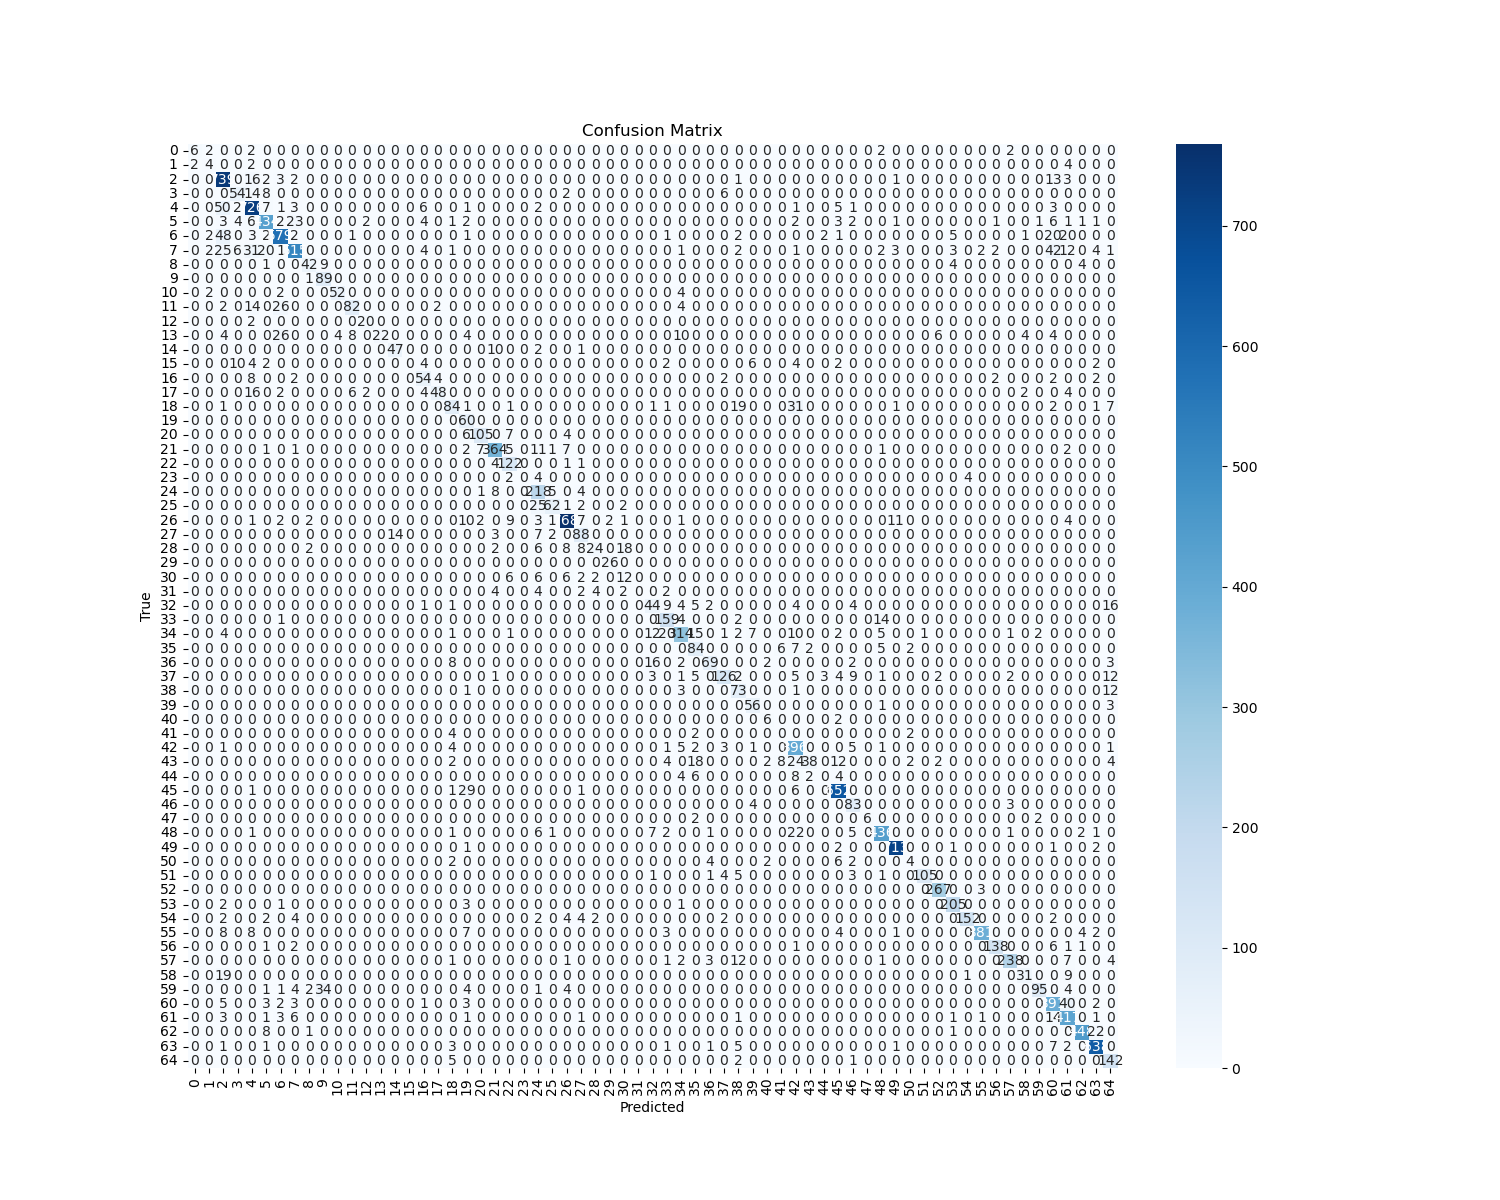
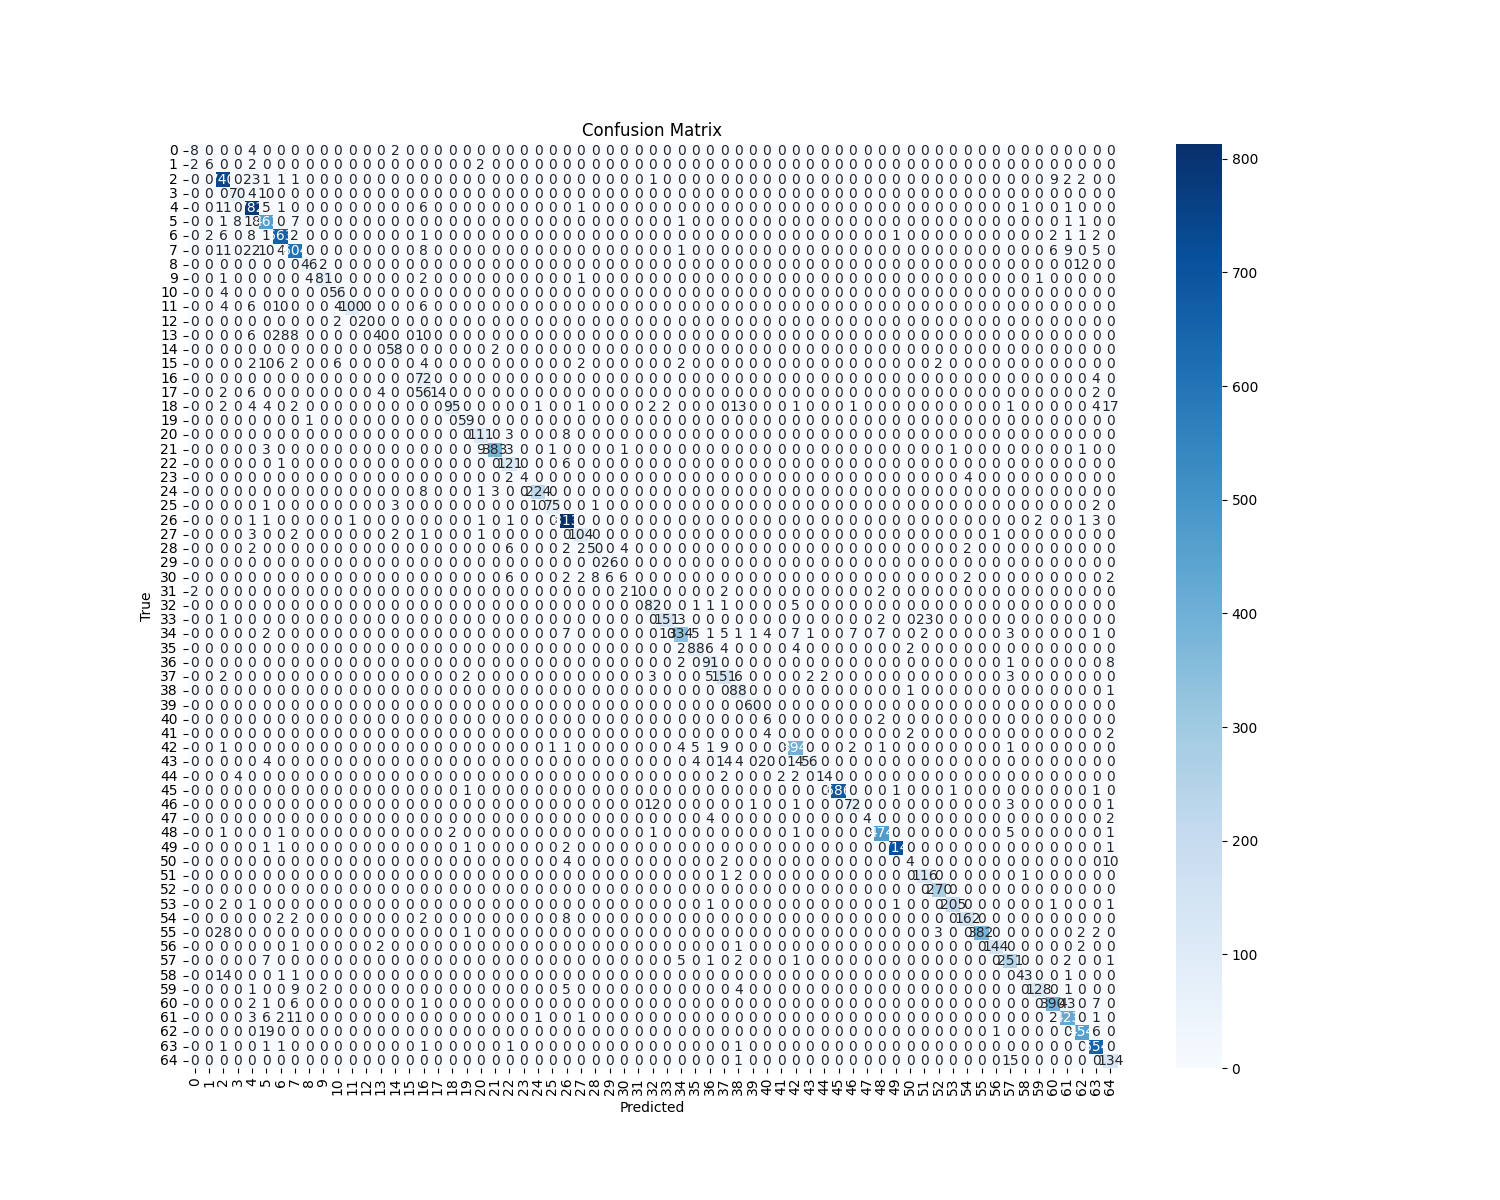
train new iterations, for metrics

diff --git a/backend/speed_recommendation_model.py b/backend/speed_recommendation_model.py
@@ -5,11 +5,9 @@ import cv2
 import numpy as np
 import pandas as pd
 import torch
-from matplotlib import pyplot as plt
 from torch import nn, optim
 from torch.utils.data import Dataset, DataLoader, random_split, WeightedRandomSampler
 from tqdm import tqdm
-from math import floor
 
 import image_feature_extraction as ft_extr
 from classes.speed_recommendation_nn import SpeedRecommendationModel
@@ -75,8 +73,6 @@ def range_to_discrete_value(range_label:str):
     return np.nan
 
 labels = pd.read_csv(LABELS_PATH)
-#labels = labels.drop(columns=["annotator", "lead_time", "updated_at", "created_at", "annotation_id", "id"])
-#labels["image"] = [name[24:] for name in labels["image"]]
 labels.sort_values("image", inplace=True)
 y = labels["choice"].apply(range_to_discrete_value)
 
@@ -84,14 +80,6 @@ data = load_data_and_extract_features(DATA_PATH)
 data.sort_values("image", inplace=True)
 data.drop(columns=["image"], inplace=True)
 
-"""data["speed"] = y
-y_high = data[data["speed"] >= 60]
-y_low = data[data["speed"] < 60]
-upsampled = y_high.sample(replace=True, n=len(y_low)//2, random_state=42)
-data = pd.concat([y_low, upsampled])
-y = data["speed"].to_numpy().reshape(-1, 1)
-data.drop(columns=["speed"], inplace=True)
-"""
 y = y.to_numpy().reshape(-1, 1)
 X = data.to_numpy()
 
@@ -144,13 +132,6 @@ model = SpeedRecommendationModel().to(device)
 loss_fn = nn.SmoothL1Loss()
 optimizer = optim.Adam(model.parameters(), lr=LEARNING_RATE, weight_decay=WEIGHT_DECAY)
 
-"""
-pd.Series(y.flatten()).hist(bins=20)
-plt.xlabel("velocity")
-plt.ylabel("sample size")
-plt.title("velocity-label distribution")
-plt.show()
-"""
 
 model.train()
 for epoch in range(EPOCHS):
@@ -224,4 +205,4 @@ metrics = pd.DataFrame(data={"Accuracy": [accuracy], "Adjacent Accuracy": [adjac
                                 "Overshot Rate", "Undershot Rate", "Major Error Rate"])
 metrics.to_csv(METRICS_PATH, mode='a', header=not os.path.exists(METRICS_PATH), index=False)
 
-torch.save(model.state_dict(), "models/speed_recommendation_model_state.pt")
+torch.save(model.state_dict(), "models/new_speed_recommendation_model_state.pt")

diff --git a/backend/traffic_sign_detection_model.py b/backend/traffic_sign_detection_model.py
@@ -273,30 +273,6 @@ test_dataset = TrafficSignDataset(test_x, test_y, MAX_IMG_SIZE, transform)
 train_loader = DataLoader(train_dataset, batch_size=BATCH_SIZE, shuffle=True, collate_fn=custom_collate_fn, pin_memory=True)
 test_loader = DataLoader(test_dataset, batch_size=BATCH_SIZE, shuffle=True, collate_fn=custom_collate_fn, pin_memory=True)
 
-"""
-for images, targets in tqdm(test_loader):
-    for image, target in zip(images, targets):
-        im = image.permute(1, 2, 0).numpy()
-        draw_bounding_boxes(im, [], [], target["boxes"])
-
-
-counts = []
-for _, targets in tqdm(test_loader):
-    for t in targets:
-        counts.append(len(t["boxes"]))
-
-# ZÃ¤hlen, wie oft jede Anzahl vorkommt
-count_dict = Counter(counts)
-print(count_dict)
-
-# Plotten
-plt.bar(count_dict.keys(), count_dict.values())
-plt.xlabel("Anzahl Schilder pro Bild")
-plt.ylabel("Anzahl Bilder")
-plt.title("Verteilung der Verkehrsschilder im Datensatz")
-plt.show()
-"""
-
 
 #model = torchvision.models.detection.fasterrcnn_mobilenet_v3_large_320_fpn(weights=FasterRCNN_MobileNet_V3_Large_320_FPN_Weights.DEFAULT)
 model = torchvision.models.detection.fasterrcnn_resnet50_fpn(weights=FasterRCNN_ResNet50_FPN_Weights.COCO_V1)
@@ -350,6 +326,6 @@ with torch.no_grad():
             total_signs += len(true_boxes)
 
 
-with open("output/detection/result.txt", "a") as f:
+with open("metrics/detection_result.txt", "a") as f:
     f.write(f"Signs Detected: {found_signs} / {total_signs} signs found.\n")
-torch.save(model.state_dict(), "models/sign_detection_model_state.pt")
+torch.save(model.state_dict(), "models/new_sign_detection_model_state.pt")

diff --git a/backend/traffic_sign_recognition_model.py b/backend/traffic_sign_recognition_model.py
@@ -18,7 +18,7 @@ from classes.sign_classification_nn import TrafficSignCNN
 
 IMG_SIZE = (64, 64)
 EPOCHS = 20
-LEARNING_RATE = 1e-4
+LEARNING_RATE = 1e-3
 BATCH_SIZE = 64
 TRAIN_PATH = "data/Classification/images"
 TEST_PATH = "data/Classification/test"
@@ -175,4 +175,4 @@ metrics = pd.DataFrame(data={"Accuracy": [accuracy], "F1-Score": [f1_avg],
                        columns=["Accuracy", "F1-Score", "Precision", "Recall"])
 metrics.to_csv(METRICS_PATH, mode='a', header=not os.path.exists(METRICS_PATH), index=False)
 
-torch.save(model.state_dict(), "models/sign_recognition_model_state.pt")
+torch.save(model.state_dict(), "models/new_sign_recognition_model_state.pt")
